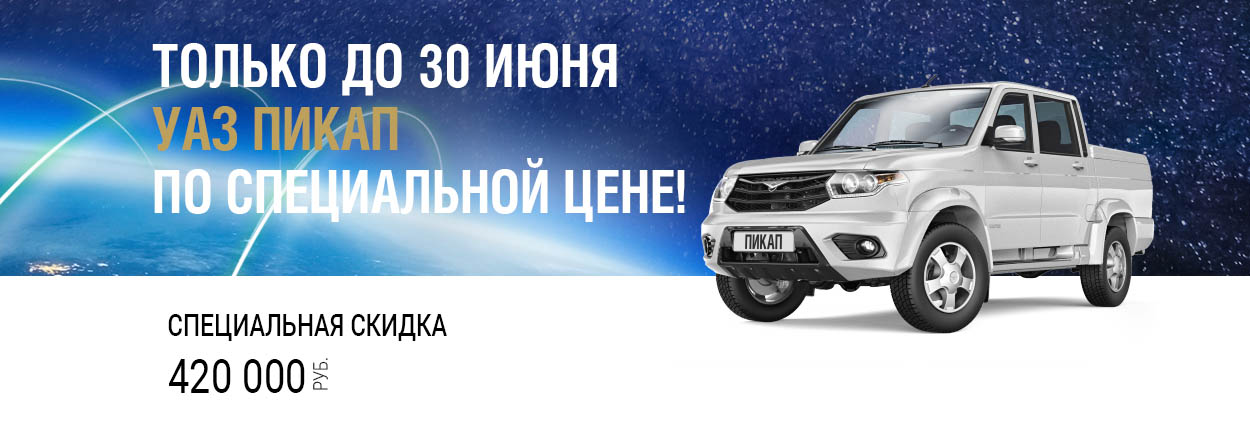
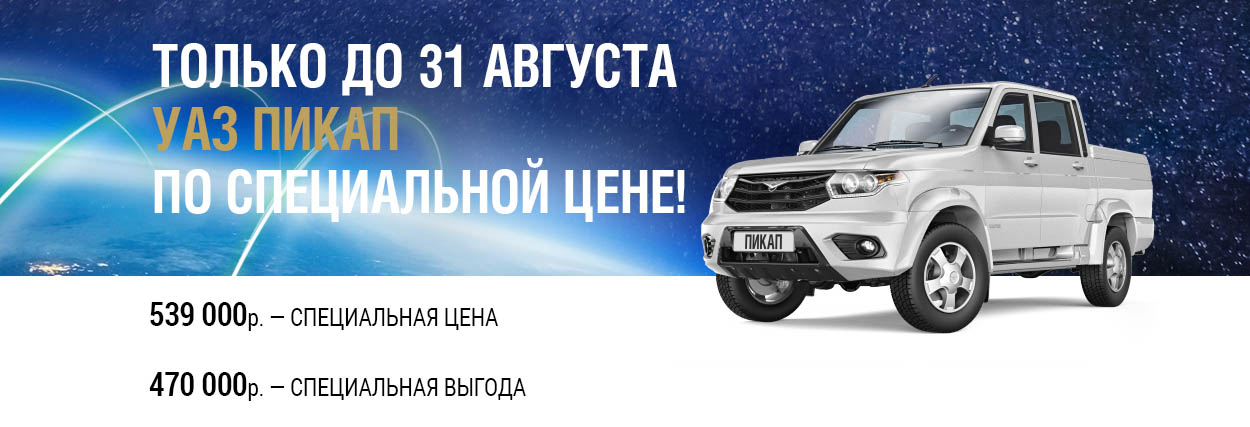
prices

Changed region(s): [[0.3432, 0.0913, 0.5616, 0.2131], [0.1248, 0.822, 0.4368, 0.9438], [0.1248, 0.7002, 0.4056, 0.7916]]

diff --git a/pickup.html b/pickup.html
@@ -68,16 +68,25 @@
 
 
             </div>
-            <h1>Скидка 420 000 рублей!</h1>
+            <h1><b>470 000</b> рублей — максимальная выгода</h1>
 
-            <p>Только до <strong>30 июня 2016 года.</strong> при покупке УАЗ ПИКАП в автосалонах Торгмаш вы можете получить скидку <strong>420 000 рублей!</strong>
-            </p>
-      <p>Подарок от ТОРГМАШ до <strong>135 000 рублей</strong></p>
-      <p>Скидка <strong>100 000 рублей</strong> за год выпуска.</p>
-      <p>Скидка <strong>50 000 рублей</strong> по программе "УАЗ-кредит".</p>
-      <p>Скидка <strong>135 000 рублей</strong> по спецпрограмме утилизация/трейд-ин.</p>
-      <p><i>*Срок действия программы — до 30 июня 2016 года.</i>
-            </p>
+<!--             <p>Только до <strong>30 июня 2016 года.</strong> при покупке УАЗ ХАНТЕР в автосалонах Торгмаш вы можете получить скидку <strong>280 000 рублей!</strong>
+            </p> -->
+            <!-- <p>Подарок от ТОРГМАШ до <strong>115 000 рублей</strong></p> -->
+            <!-- <p>Скидка <strong>50 000 рублей</strong> за год выпуска.</p> -->
+<!--             <p>Скидка <strong>50 000 рублей</strong> по программе "УАЗ-кредит".</p>
+            <p>Скидка <strong>115 000 рублей</strong> по спецпрограмме утилизация/трейд-ин.</p>
+            <p><i>*Срок действия программы — до 30 июня 2016 года.</i>
+            </p> -->
+            <p>Только у официального дилера УАЗ «ТоргМаш» комбинированная скидка:</strong>
+              </p>
+              <ol>
+                <li>до 300 000 р. ДАЕМ ПРЯМЫЕ СКИДКИ</li>
+                <li>до 470 000 р. ДАРИМ ДОП.ОБОРУДОВАНИЕ</li>
+                <!-- <li>до 349 000 р. ДАЕМ СКИДКУ И ДАРИМ ОБОРУДОВАНИЕ</li> -->
+              </ol>
+              <p><strong>Это реально!</strong></p>
+              <p>Один шаг до максимальных скидок – заполните заявку или позвоните в дилерский центр «ТоргМаш» – ВСЕ остальное мы сделаем сами!</p>
             <hr>
 
             <div>

diff --git a/cargo.html b/cargo.html
@@ -68,19 +68,19 @@
 
 
                 </div>
-                <h1>Скидка 400 000 рублей!</h1>
+            <h1><b>450 000</b> рублей — максимальная выгода</h1>
 
-                <p>Только до <strong>30 июня 2016 года</strong> при покупке УАЗ Карго в автосалонах Торгмаш вы можете получить скидку <strong>400 000 рублей!</strong>
-                </p>
-      <p>Подарок от ТОРГМАШ до <strong>135 000 рублей</strong></p>
-      <p>Скидка <strong>80 000 рублей</strong> за год выпуска.</p>
-      <p>Скидка <strong>50 000 рублей</strong> по программе "УАЗ-кредит".</p>
-      <p>Скидка <strong>135 000 рублей</strong> по спецпрограмме утилизация/трейд-ин.</p>
-      <p><i>*Срок действия программы — до 30 июня 2016 года.</i>
-                </p>
-                <hr>
+            <p>Только у официального дилера УАЗ «ТоргМаш» комбинированная скидка:</strong>
+              </p>
+              <ol>
+                <li>до 280 000 р. ДАЕМ ПРЯМЫЕ СКИДКИ</li>
+                <li>до 450 000 р. ДАРИМ ДОП.ОБОРУДОВАНИЕ</li>
+              </ol>
+              <p><strong>Это реально!</strong></p>
+              <p>Один шаг до максимальных скидок – заполните заявку или позвоните в дилерский центр «ТоргМаш» – ВСЕ остальное мы сделаем сами!</p>
+            <hr>
 
-                <div>
+            <div>
                     <form class="special-offer-buy-form" name="trade-in-form">
                         <h3 style="text-align:center">Получите лучшее предложение!</h3><br>
                         <span>Ваше имя</span>
